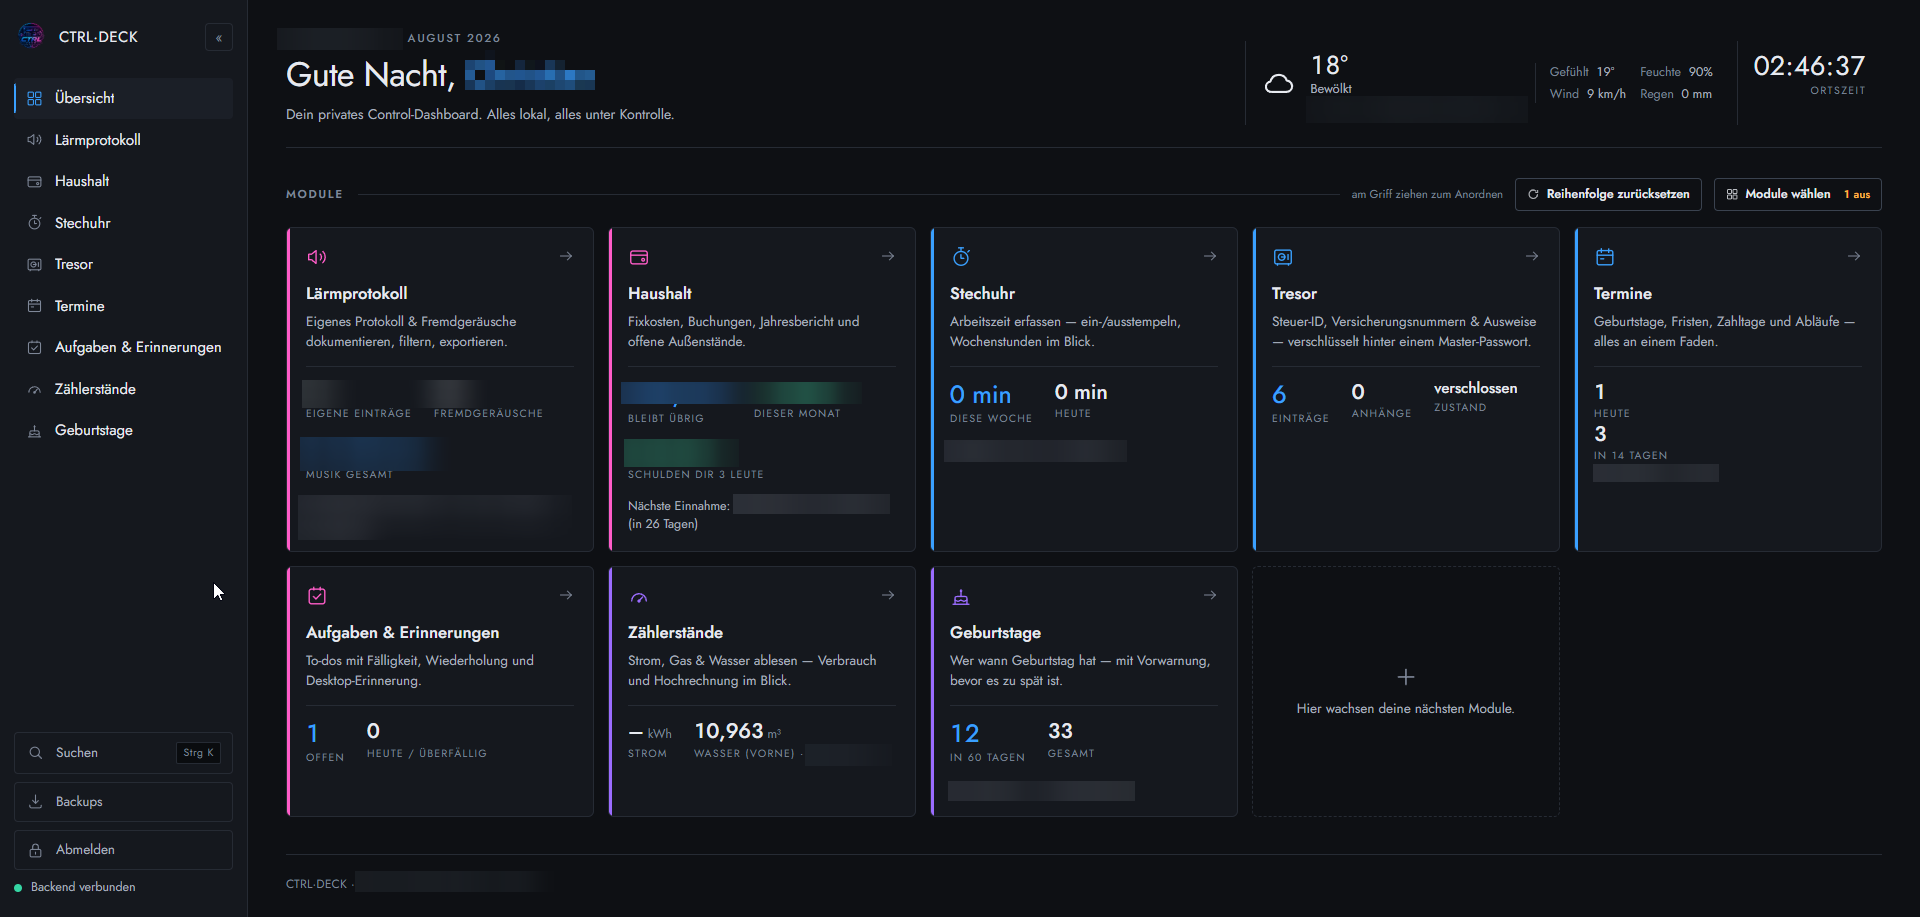
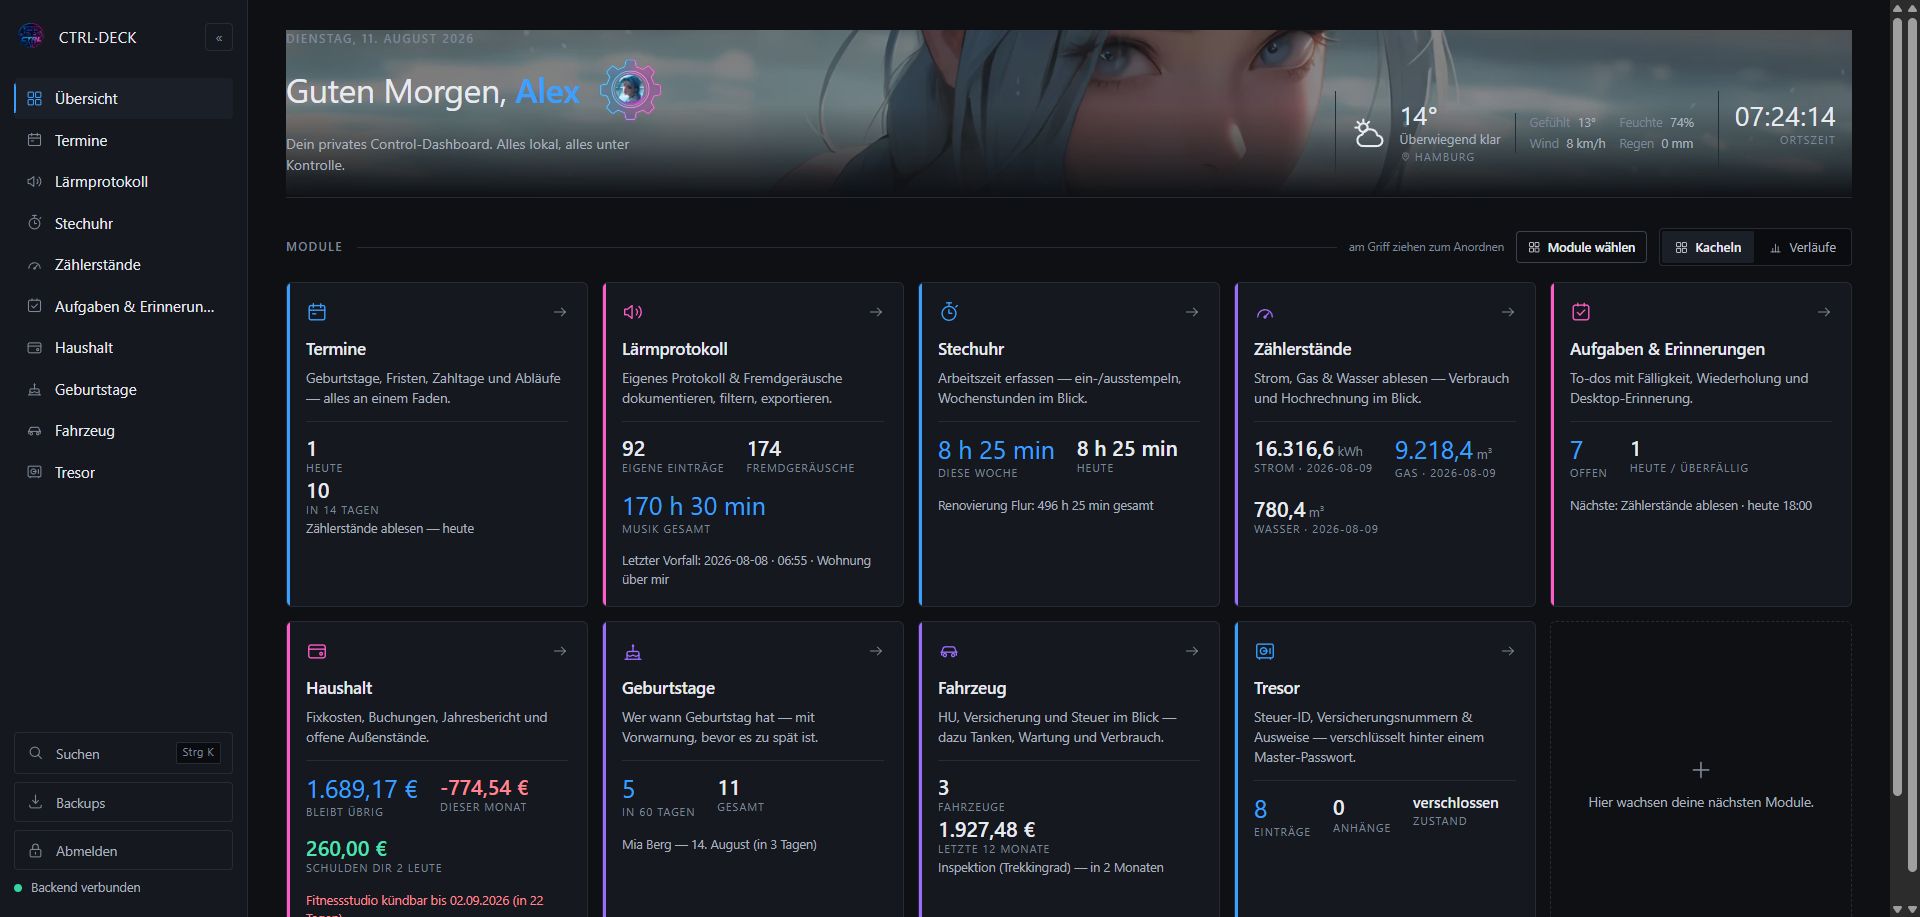
Neue Screenshots aus der Demo-Installation
Die alten Bilder zeigten den echten Bestand vor dem Profilknopf. Ersetzt durch
neun Aufnahmen einer Demo-Installation mit erfundenen Daten, dazu ein Abschnitt
"Blick hinein" mit Verlaufsansicht, sechs Modulen und Profilseite.

diff --git a/README.md b/README.md
@@ -7,6 +7,8 @@ in einer SQLite-Datei neben dem Programm und gehen nirgendwo hin.
 
 ![Die Startseite von CTRL·DECK](docs/screenshots/uebersicht.png)
 
+<sub>Alle Bilder zeigen eine Demo-Installation mit erfundenen Daten.</sub>
+
 ## Warum
 
 Für jede dieser Aufgaben gibt es eine App, und jede will ein Konto, ein Abo und
@@ -30,7 +32,26 @@ neun Module, eine Datei. Wer es nicht mehr will, löscht den Ordner.
 Dazu im Gerüst: Wetter, globale Suche (`Strg`+`K`), Backups, ein- und
 ausblendbare Module, freie Reihenfolge per Ziehen.
 
-<img src="docs/screenshots/seitenleiste.png" alt="Die Seitenleiste" width="230">
+## Blick hinein
+
+Dieselbe Übersicht, zweite Ansicht: statt der Kacheln die Verläufe aller
+Module — alle Bilder auf denselben Zeitraum.
+
+![Die Übersicht als Verläufe](docs/screenshots/verlaeufe.png)
+
+| | |
+|---|---|
+| ![Lärmprotokoll](docs/screenshots/laermprotokoll.png) | ![Stechuhr](docs/screenshots/stechuhr.png) |
+| **Lärmprotokoll** — Statistik rechnet über den gefilterten Zeitraum, Ausgabe als TXT oder druckfertiger Bericht. | **Stechuhr** — stempeln oder nachtragen, Zeit je Projekt, Verlauf pro Monat. |
+| ![Zählerstände](docs/screenshots/zaehlerstaende.png) | ![Haushalt](docs/screenshots/haushalt.png) |
+| **Zählerstände** — Verbrauch, Hochrechnung und, wenn Tarif und Abschlag hinterlegt sind, Guthaben oder Nachzahlung. | **Haushalt** — Fixkosten mit Kündigungsfristen; was zuerst wegläuft, steht oben. |
+| ![Tresor](docs/screenshots/tresor.png) | ![Geburtstage](docs/screenshots/geburtstage.png) |
+| **Tresor** — im Browser verschlüsselt; Werte bleiben verdeckt, bis man sie aufdeckt. | **Geburtstage** — mit Vorwarnung, Gedenktage getrennt. |
+
+Und die Profilseite: ein Jahr Dashboard auf einen Blick — Aktivitätsraster,
+Serien, Kennzahlen je Modul.
+
+![Die Profilseite als Jahresrückblick](docs/screenshots/profil.png)
 
 ## Loslegen
 
